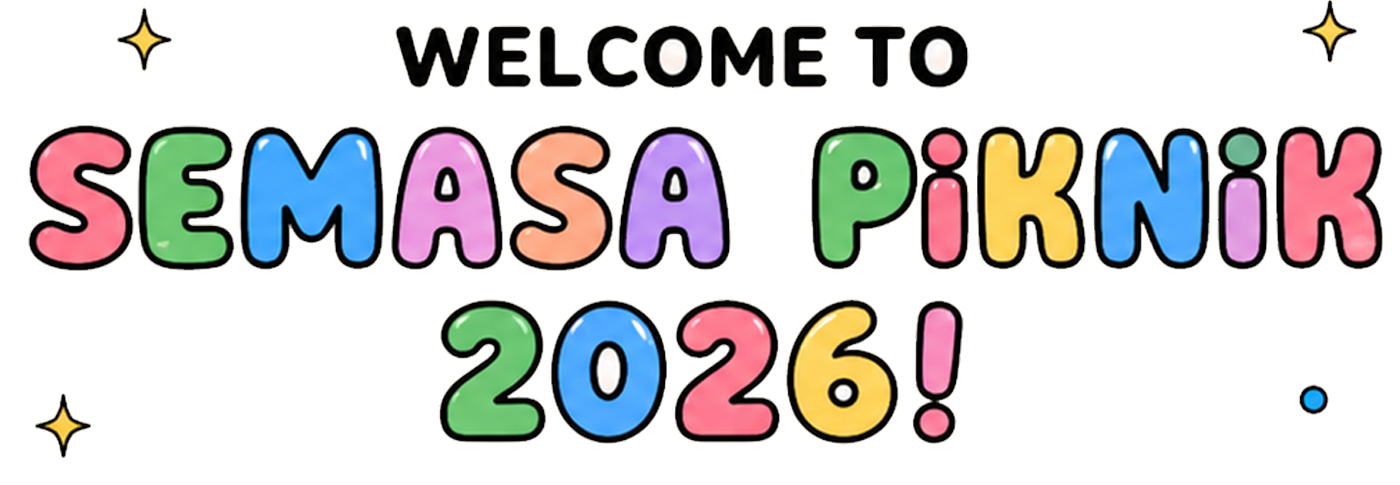
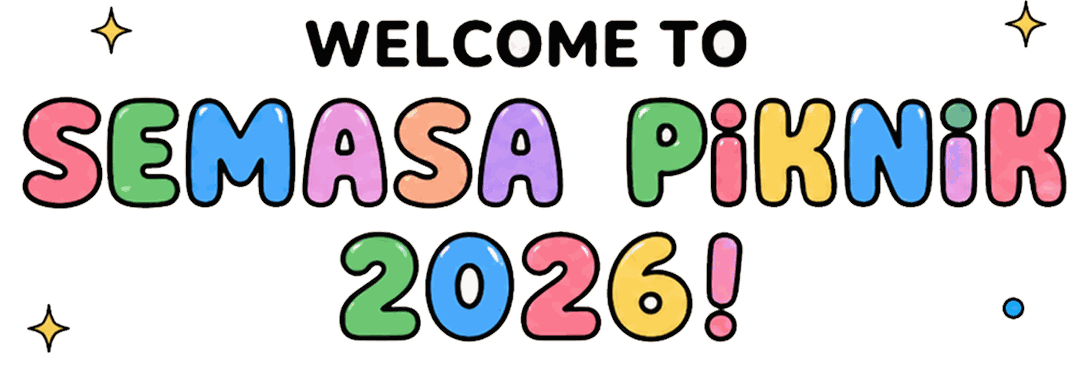
Optimize images for web + add Vercel SPA config
- Downscale/recompress all served images to ~3x their display size; the served
  image set drops from ~3.9MB to ~224KB with no visible quality loss
- Remove unused duplicated assets from public/ (PAGE1_BACKGROUND.png, ICON/) —
  public/assets is now ~268KB total
- Add vercel.json rewrite so client-side routes (e.g. /register) don't 404 on
  refresh/deep-link
- Include updated character positions on the landing

Changed region(s): [[0.8556, 0.3824, 0.9167, 0.4706], [0.4889, 0.8824, 0.5194, 0.9118]]

diff --git a/src/pages/Landing.jsx b/src/pages/Landing.jsx
@@ -51,38 +51,38 @@ export default function Landing() {
         />
 
         {/* sparkles around the character band */}
-        <Sticker name="starPurple" size={18} top={-30} left={96} rotate={-12} basePath={ASSET_BASE} />
-        <Sticker name="starYellow" size={16} top={-40} right={64} rotate={-10} basePath={ASSET_BASE} />
-        <Sticker name="starPurple" size={16} bottom={-6} left={-2} rotate={12} basePath={ASSET_BASE} />
+        <Sticker name="starPurple" size={18} top={-100} left={96} rotate={-12} basePath={ASSET_BASE} />
+        <Sticker name="starYellow" size={16} top={-95} right={110} rotate={-10} basePath={ASSET_BASE} />
+        <Sticker name="starPurple" size={16} bottom={-40} left={5} rotate={12} basePath={ASSET_BASE} />
 
         {/* --- characters resting on the card's top edge: kid (left) · mascot (center) · car (right) --- */}
         <img
           src={asset("assets/illustrations/kid-waving.png")}
           alt="" aria-hidden="true"
-          style={overCard({ left: 16, top: 0, transform: "translateY(-86%)", width: 92, zIndex: 2 })}
+          style={overCard({ left: 50, top: 0, transform: "translateY(-100%)", width: 92, zIndex: 2 })}
         />
         <img
           src={asset("assets/illustrations/mascot-peek.png")}
           alt="" aria-hidden="true"
-          style={overCard({ left: "50%", top: 0, transform: "translate(-50%, -84%)", width: 132, zIndex: 3 })}
+          style={overCard({ left: "50%", top: 0, transform: "translate(-50%, -90%)", width: 132, zIndex: 3 })}
         />
         <img
           src={asset("assets/illustrations/car-green.png")}
           alt="" aria-hidden="true"
-          style={overCard({ right: 8, top: 0, transform: "translateY(-92%)", width: 116, zIndex: 2 })}
+          style={overCard({ right: 20, top: 0, transform: "translateY(-110%)", width: 105, zIndex: 2 })}
         />
 
         {/* girl walking past the card's bottom-right */}
         <img
           src={asset("assets/illustrations/girl-tote.png")}
           alt="" aria-hidden="true"
-          style={overCard({ right: -6, bottom: -8, width: 62, zIndex: 4 })}
+          style={overCard({ right: 0, bottom: -60, width: 62, zIndex: 4 })}
         />
         {/* little flowers at the card's bottom-left */}
         <img
           src={asset("assets/icons/flower.png")}
           alt="" aria-hidden="true"
-          style={overCard({ left: -8, bottom: 14, width: 38, zIndex: 2 })}
+          style={overCard({ left: 0, bottom: -20, width: 38, zIndex: 2 })}
         />
 
         <Card tone="cream" padding={0} radius="var(--radius-card)" style={{ position: "relative", zIndex: 1 }}>
